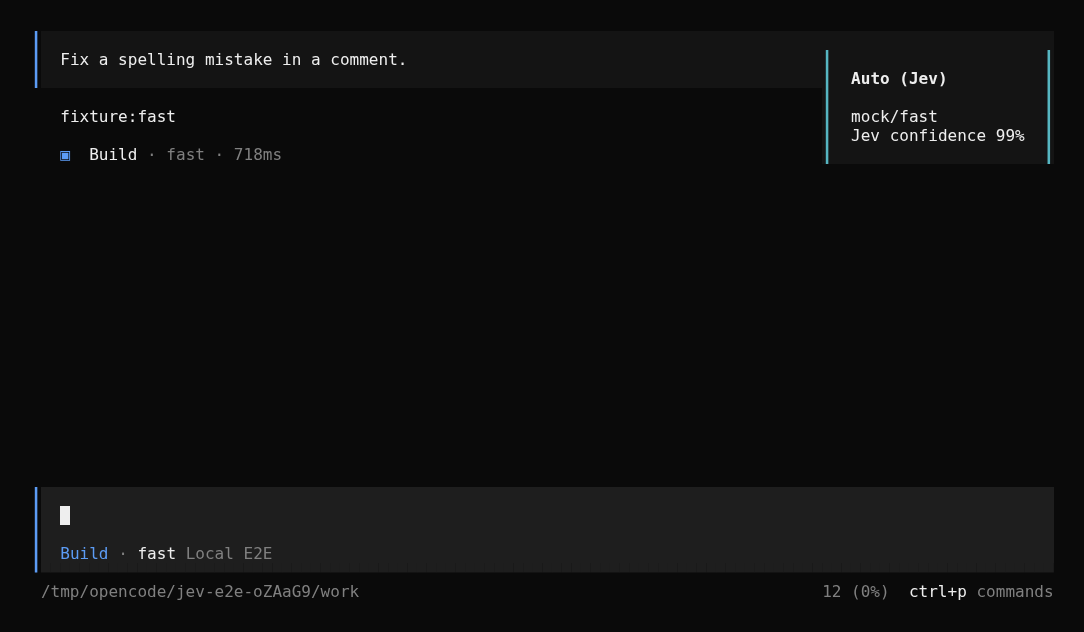
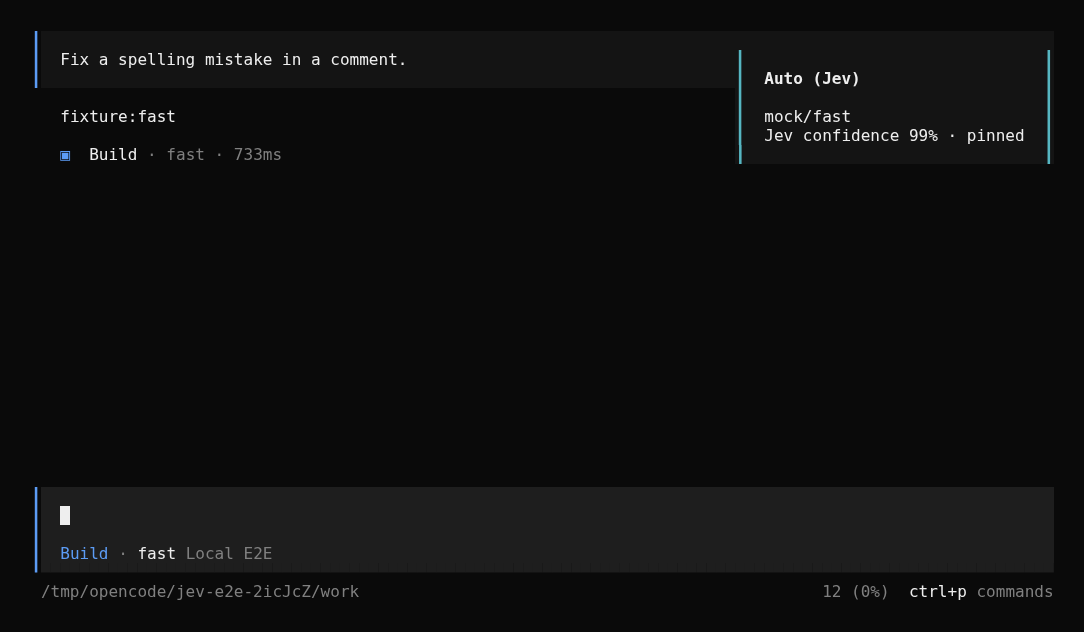
Document confidence-qualified sticky routing and update screenshots

Changed region(s): [[0.6697, 0.0902, 0.9437, 0.2405], [0.2435, 0.9019, 0.3044, 0.962]]

diff --git a/README.md b/README.md
@@ -1,9 +1,11 @@
 # opencode-plugin-jev-auto-model-router
 
-An opt-in `Auto` model for OpenCode. When you pick `Auto (Jev)`
-(`jev-router/auto`), the plugin asks a TypeSafe classifier to choose one model
-from a candidate allowlist you define. It runs once per user turn. Every other
-model, agent, and setting in OpenCode keeps working as before.
+Jev-based model selection for OpenCode, with two modes: opt-in `Auto (Jev)`
+(`jev-router/auto`), or an explicit force mode that overrides ordinary main
+and delegated task model selections. Jev chooses from your configured candidate
+allowlist until a decision reaches the sticky-confidence threshold (99% by
+default). That model is then fixed for the session; later turns do not call Jev
+again. The plugin preserves the agent, tools, and permissions.
 
 **Status: beta, install from a checkout.** Source is available on
 [GitHub](https://github.com/purplesmoke05/opencode-plugin-jev-auto-model-router).
@@ -11,10 +13,10 @@ This plugin is not published to npm. The supported target is OpenCode `1.18.31` 
 `>=1.18.31 <1.19.0`); newer builds are untested. Compatibility with
 oh-my-openagent is not fully validated, so don't treat this as production-ready.
 
-**OpenCode 1.18.31 TUI caveat:** entering a new or reopened session can reset
-the model picker to the first routed model. Open `/models` in that session and
-select `Auto (Jev)` again. See [TUI selection](#tui-selection) before relying on
-continuous routing. The plugin does not silently override manual model choices.
+**Auto-mode TUI caveat in OpenCode 1.18.31:** entering a new or reopened session can reset
+the model picker to the routed model. If it is already pinned, no further Jev
+decision is needed. Otherwise reselect Auto to continue evaluating. Auto mode preserves manual model choices. Force mode
+deliberately overrides them, so it does not require Auto to remain selected.
 
 ![Auto (Jev) routing a turn in the OpenCode TUI](docs/usage.png)
 
@@ -29,21 +31,126 @@ The plugin registers a virtual provider, `jev-router`, with a single model,
 endpoint. If a request ever reaches it, the plugin throws instead of sending
 anything upstream.
 
-On each user turn where `Auto (Jev)` is selected, the `chat.message` hook:
+On routed user turns before a model is pinned, the `chat.message` hook:
 
 1. Filters your candidate allowlist against the connected model registry, so
    only models that are connected, advertise tool calling, and accept every
    modality in the turn remain.
-2. Sends the current turn's non-synthetic user text and the candidate
-   descriptions to TypeSafe.
+2. Sends the current request, the latest visible assistant reply when available,
+   and the candidate descriptions to TypeSafe.
 3. Rewrites the turn's model to the chosen candidate when TypeSafe returns one
    with confidence at or above the threshold, or to your fallback candidate
    otherwise.
 4. Leaves the agent unchanged, so permissions and behavior match any other
    model choice.
 
-The rewrite happens once, before the turn executes. Tool calls made during the
-turn stay on the selected model; the model is never changed mid-tool.
+When Jev selects a model with confidence at or above the sticky threshold, that
+provider/model/variant is stored per session. Later ordinary turns reuse it
+without asking Jev, even when the task gets harder or easier. New sessions
+(including new child sessions) qualify their own decisions independently.
+
+## Conversation context
+
+Each decision before pinning sees **one exchange only**: the latest visible assistant
+reply, if there is one, and the current user answer. On a fresh session without
+an assistant reply, only the current request is available. After pinning, no
+further context is sent to Jev.
+
+The structured `state` contains `current_request` and `task_context`:
+
+- `previous_assistant`: the latest eligible assistant reply, bounded in size.
+- `truncated`: whether that reply had to be shortened.
+
+There is no session-origin text, older conversation, compaction summary, tool
+output, reasoning, parent history, or summarization-model call. This is not a
+full understanding of the ongoing task; it is the deliberately minimal input
+used for each decision until the session qualifies for a pin.
+
+By default the serialized context object is limited to **4,000 characters**.
+This is separate from the current request's
+`maxPromptChars` limit, and is a character budget, not a measured token count.
+Only the current session is used. Delegated sessions receive their own task
+prompt plus their own latest assistant reply, if any.
+
+```json
+"context": {
+  "enabled": true,
+  "maxCharacters": 4000
+}
+```
+
+Set `"context": { "enabled": false }` and restart to send only the current
+request. Metadata-only routing logs report `contextCharacters`,
+`contextMessages`, and `contextTruncated` for decision requests; the actual
+conversation text is not logged by this plugin.
+
+## Sticky sessions
+
+`"sticky": true` and `"stickyConfidenceThreshold": 0.99` are the defaults.
+The first accepted Jev choice with **unrounded confidence >= 0.99** is pinned.
+Before that, each eligible turn is evaluated again. A valid choice below 0.99
+can be used for that turn, but is not pinned. Timeout, HTTP error, missing-key,
+and low-confidence fallbacks are **not** pinned.
+
+**From the qualifying decision onward, later ordinary turns make zero Jev
+requests.** Reopening the same session or restarting OpenCode keeps the pin.
+There is no time-based expiry. The existing `confidenceThreshold` still controls
+whether a decision is accepted for the current turn; it is separate from the
+stricter pinning threshold. Changing thresholds does not re-evaluate an existing pin.
+
+Pins contain model metadata only and live under
+`$XDG_STATE_HOME/opencode/jev-router/sessions-confidence/` (normally
+`~/.local/state/opencode/jev-router/sessions-confidence/`). They do not store prompts, replies,
+or API keys. Session deletion removes its pin when the plugin receives the event.
+If a pinned model is removed, disconnected, or cannot accept new attachments,
+the plugin stops rather than silently choosing another model. Start a new
+session or set `"sticky": false` to return to per-turn routing. Disabling sticky
+does not erase existing pins.
+
+Earlier unconditional pins in the old `sessions/` directory are not read by
+this policy: they have no qualifying-confidence evidence. They are left intact,
+and those sessions qualify afresh after restarting with this version.
+
+The exception is OMO execution-error recovery: a marked retry keeps OMO's model
+and updates an existing pin to that recovery model, without calling Jev. This
+prevents the next normal turn from switching back to the failing model.
+
+Staying on one model avoids router-induced cache disruption, but does not
+guarantee provider prompt-cache hits or discounts.
+
+## Force mode
+
+Add `"mode": "force"` to the plugin options to let Jev choose the model for
+ordinary main and subagent task prompts, even when the user or OMO specified
+a concrete model. OMO still chooses the agent/category and supplies its prompt
+and permissions; Jev chooses the execution model. The `agents` allowlist applies
+only in `"auto"` mode and is ignored in `"force"` mode.
+
+The same candidate list, acceptance threshold, timeout, and fallback apply
+until a qualifying selection is pinned. Subsequent turns use the session pin.
+Set `"mode": "auto"` (the default) and restart OpenCode to return to opt-in routing.
+
+Force mode deliberately leaves these alone:
+
+- Internal `title`, `summary`, and `compaction` agent turns.
+- Synthetic continuations, main-session internal notifications, and child
+  notifications marked as no-reply. OMO also marks ordinary delegated task
+  prompts as internal; those child task prompts are routed, not discarded.
+- OMO execution-error retry messages identified by its explicit
+  `OMO_RUNTIME_FALLBACK_RETRY` marker on synthetic/internal-only text parts.
+- Further model requests inside the same tool loop; a new task prompt is routed
+  once, not after every tool result.
+
+The marker contract was checked against OMO `5.0.0-beta.65`. No generic error
+words are used to identify retries. OMO remains responsible for execution-error
+recovery, and its recovery model may be outside the Jev candidate list. This is
+a selection policy, not a provider-access security boundary.
+
+The picker can show a concrete model while force mode remains active; that
+selection is not a pin. Routing toasts show `Auto (Jev) · Force`, and routing
+logs include the configured mode.
+
+![A forced session reusing its model without another Jev call](docs/sticky-mode.png)
 
 ## Configuration
 
@@ -80,10 +187,15 @@ candidate providers there. This plugin does not change that allowlist.
 | --- | --- | --- |
 | `candidates` | required | 1 to 16 entries of `{ model, description, variant? }`. Models must be unique. `description` is what Jev compares candidates against, so make it specific. |
 | `fallback` | required | One of the candidates. Used for every fallback path. |
-| `agents` | `["build", "quick"]` | Agent names Auto may route. Other agents fall back. |
+| `mode` | `"auto"` | `"auto"` respects model selection; `"force"` overrides ordinary main and delegated task model choices. |
+| `sticky` | `true` | Pin the first qualifying Jev choice per session; no Jev calls after pinning. |
+| `stickyConfidenceThreshold` | `0.99` | Minimum unrounded Jev confidence to create a new pin. Fallbacks never qualify. |
+| `agents` | `["build", "quick"]` | In auto mode, agent names Auto may route. Ignored in force mode. |
 | `confidenceThreshold` | `0.7` | Minimum Jev confidence to accept a choice. |
 | `timeoutMs` | `5000` | Client-side budget for the Jev request. |
 | `maxPromptChars` | `12000` | Turns with more text than this fall back without calling Jev. |
+| `context.enabled` | `true` | Include the latest visible assistant reply in each Jev request before pinning. |
+| `context.maxCharacters` | `4000` | Hard serialized context-object character budget (1024–24000), separate from the current request. |
 | `notify` | `true` | Show a routing toast. Metadata-only OpenCode logging remains enabled when this is false. |
 
 Defaults come from `src/config.ts`. The `0.7` confidence default is a starting
@@ -96,9 +208,9 @@ promise from TypeSafe.
 
 The turn runs on the fallback candidate without calling TypeSafe when:
 
-- the session is a child/subagent session, or the agent is not in `agents`
+- in auto mode, the session is a child/subagent session, or the agent is not in `agents`
   (`scope-fallback`)
-- the turn has no non-synthetic user text (`synthetic-fallback`)
+- in auto mode, the turn has no non-synthetic user text (`synthetic-fallback`)
 - the user text is empty (`empty-prompt`)
 - the user text exceeds `maxPromptChars` (`prompt-too-long`)
 - `TYPESAFE_API_KEY` is empty (`missing-key`)
@@ -137,18 +249,25 @@ What leaves your machine when Jev is called:
 
 - the current user turn's non-synthetic text, joined into one string
 - the candidate model IDs and their `description` strings
+- when context is enabled, the latest visible assistant reply within the
+  configured bound; older messages are not included
 
-What is not intentionally sent:
+In force mode, the text can also be a delegated task prompt authored by OMO or
+another parent agent. Those prompts can contain code or repository context;
+enabling force mode opts those task prompts into transmission to TypeSafe too.
 
-- tool output, file contents, or other injected text
-- synthetic or ignored message parts
-- conversation history; only the latest turn is classified
+What is excluded from context:
 
-Two caveats. If you paste a secret into your message, it is user text and it is
-transmitted like any other prompt. Also, the plugin reads local session message
-history to work out which attachment modalities the session has already used.
-That read stays local and is used only for capability filtering; it is not part
-of the request sent to TypeSafe.
+- raw tool inputs, outputs, error bodies, attachments, and reasoning parts
+- synthetic or ignored message parts and OMO retry/no-reply notifications
+- older conversation, compaction summaries, parent/sibling histories, and
+  content fetched directly from repository files
+
+User/assistant prose and delegated task prompts can still
+contain pasted code or secrets. There is no general-purpose secret redaction:
+do not enable context for conversations you cannot send to TypeSafe. The host
+also reads local history for attachment compatibility; attachment contents are
+not added to the classifier request by the context builder.
 
 The request goes directly to TypeSafe at
 `https://api.typesafe.ai/v1/systemone`, authenticated with `TYPESAFE_API_KEY`.
@@ -157,38 +276,36 @@ This is TypeSafe's own REST API, not OpenRouter or any other gateway.
 ## Limitations
 
 - No mid-tool model changes. Routing is decided once per user turn.
-- No semantic memory. Jev sees only the current turn's text, not prior
-  messages, so it can't reason about the conversation as a whole.
+- Each decision has only the latest assistant reply and current request.
+  It can miss earlier context. After pinning, sticky mode intentionally does not
+  reconsider the choice as the work changes; use a new session for a new decision.
 - Context windows are placeholders. The virtual Auto model advertises a
    32,000-token context and a 4,096-token output limit. Those numbers are
   placeholder metadata, not the real limits of the model that ends up running.
   OpenCode resolves the real model for execution. Automatic compaction and
   synthetic continuation paths have not been validated end to end.
-- Subagents are not routed. A child session with an explicit model is
+- In auto mode, subagents are not routed. A child session with an explicit model is
   untouched. A child session that inherits Auto resolves to the fixed fallback
   candidate without calling Jev.
-- Not universal routing. The plugin only affects the `jev-router/auto` model.
-  It does not route other models, providers, or agents.
+- Force mode is not interception of every LLM call. The exclusions above remain
+  outside routing, and automatic compaction is still handled by OpenCode.
 
 ## TUI selection
 
+The following caveat concerns opt-in auto mode, not forced routing.
 OpenCode 1.18.31 hydrates its local model picker from the last user message when
 entering a session. That message contains the real execution model after routing.
 Consequently, starting with Auto on the home screen, or reopening a routed
 session, can leave the picker on the real model. Subsequent messages then bypass
 Jev, exactly like any manual model selection.
 
-After the session opens, use `/models` and select `Auto (Jev)` again. Routing
-works on subsequent turns while the picker remains on Auto. In the tested
-two-turn TUI scenario, reselecting Auto routed the second turn to the fallback
-after a mock HTTP 429. CLI same-session continuation is separately covered by
-the real-binary E2E tests.
+Once a model is pinned, it does not need reclassification. Reselecting Auto
+reuses that session's pin. Before pinning, reselect Auto to keep evaluating. With
+`"sticky": false`, reselect Auto inside the session to request per-turn routing.
 
 ![Auto (Jev) in the actual OpenCode model picker](docs/model-picker.png)
 
-![A second turn using Auto after reselection, with a mock HTTP 429](docs/continuation.png)
-
-Both images use local mock endpoints. Neither is a live-model performance
+The images use local mock endpoints. They are not live-model performance
 measurement. Keeping Auto selected automatically across TUI session hydration
 requires an upstream selection/execution-model separation; this server-only
 plugin deliberately does not guess whether a real-model selection was manual.
@@ -196,12 +313,22 @@ plugin deliberately does not guess whether a real-model selection was manual.
 ## oh-my-openagent compatibility
 
 If you use oh-my-openagent (OMO), place this plugin's tuple after the OMO entry
-in the `plugin` array. The hook only rewrites the model when the turn is still
-on `jev-router/auto`, so an override made by an earlier plugin is respected and
-this plugin does nothing.
+in the `plugin` array. In auto mode, the hook rewrites the model only while it is
+still on `jev-router/auto`; an earlier OMO override is respected. In force mode,
+ordinary OMO choices are deliberately overwritten, while marked internal
+retries are preserved. Later model-mutating plugins can still overwrite Jev's
+choice; place this router after other ordinary model selectors.
 
-Current OMO compatibility is not fully validated. Treat it as beta and verify
-your own setup before relying on it.
+An isolated OpenCode 1.18.31 + OMO 5.0.0-beta.65 test covers forced primary
+routing, an actual OMO `task` delegation with a pinned child model, and preservation
+of retry/internal-notification markers. OMO runtime fallback is enabled in that
+fixture, but retries are injected marker messages; real upstream failure and
+recovery, Sisyphus orchestration, MCPs, and automatic continuation are not fully
+validated. Treat it as beta and verify your own setup before relying on it.
+
+With force mode, keep a concrete default model in OpenCode/OMO; selecting the
+virtual Auto model is unnecessary. Internal OMO paths that do not pass through
+the routing hook still need a real model to execute.
 
 ## Install
 
@@ -241,6 +368,14 @@ the TypeSafe client, and the OpenCode hooks. End-to-end fixtures live under
 binary. `bun run test:e2e` requires OpenCode 1.18.31 on PATH (or
 `OPENCODE_E2E_BINARY`) and does not call live providers. It isolates HOME, XDG
 directories, configuration, and credentials under `/tmp/opencode`.
+
+The additional real-OMO suite is optional and uses only local mock model APIs:
+
+```sh
+OPENCODE_E2E=1 \
+OPENCODE_E2E_OMO_PLUGIN=/absolute/path/to/oh-my-openagent/dist/index.js \
+bun test tests/omo-e2e.test.ts
+```
 
 An optional live connection check sends one generic, non-private prompt to
 TypeSafe, with hypothetical candidate labels. It never calls a coding model
